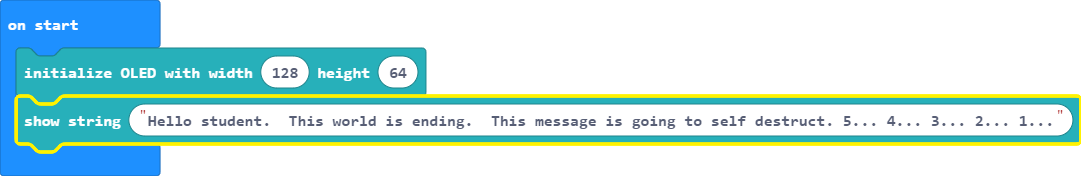
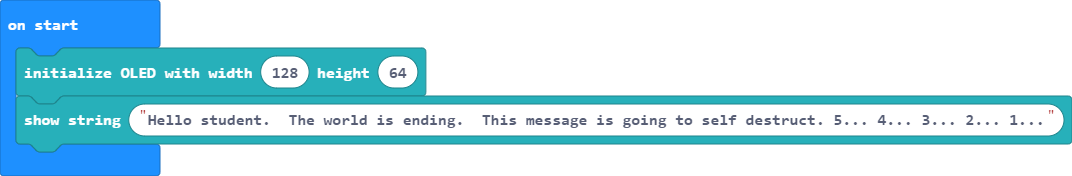
Update main.blocks, main.ts

Changed region(s): [[0.0, 0.2841, 1.0, 0.8807], [0.0308, 0.1136, 0.0924, 0.1705], [0.2463, 0.3125, 0.2771, 0.3409]]

diff --git a/main.ts b/main.ts
@@ -1,2 +1,2 @@
 OLED.init(128, 64)
-OLED.writeStringNewLine("Hello student.  This world is ending.  This message is going to self destruct. 5... 4... 3... 2... 1...")
+OLED.writeStringNewLine("Hello student.  The world is ending.  This message is going to self destruct. 5... 4... 3... 2... 1...")
